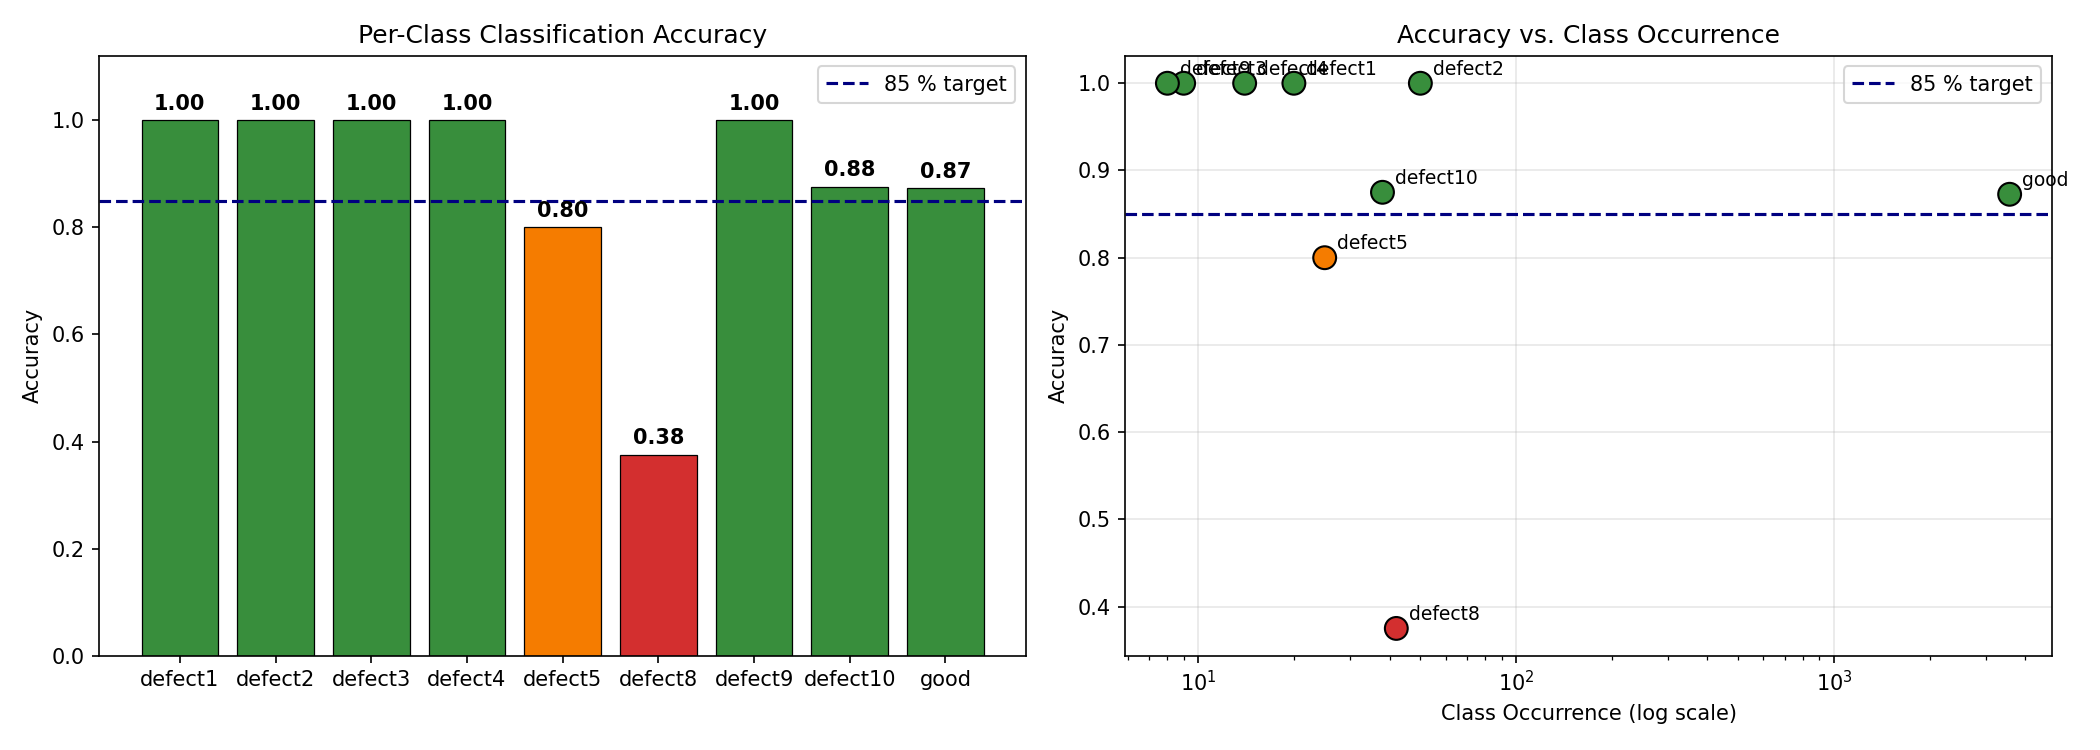
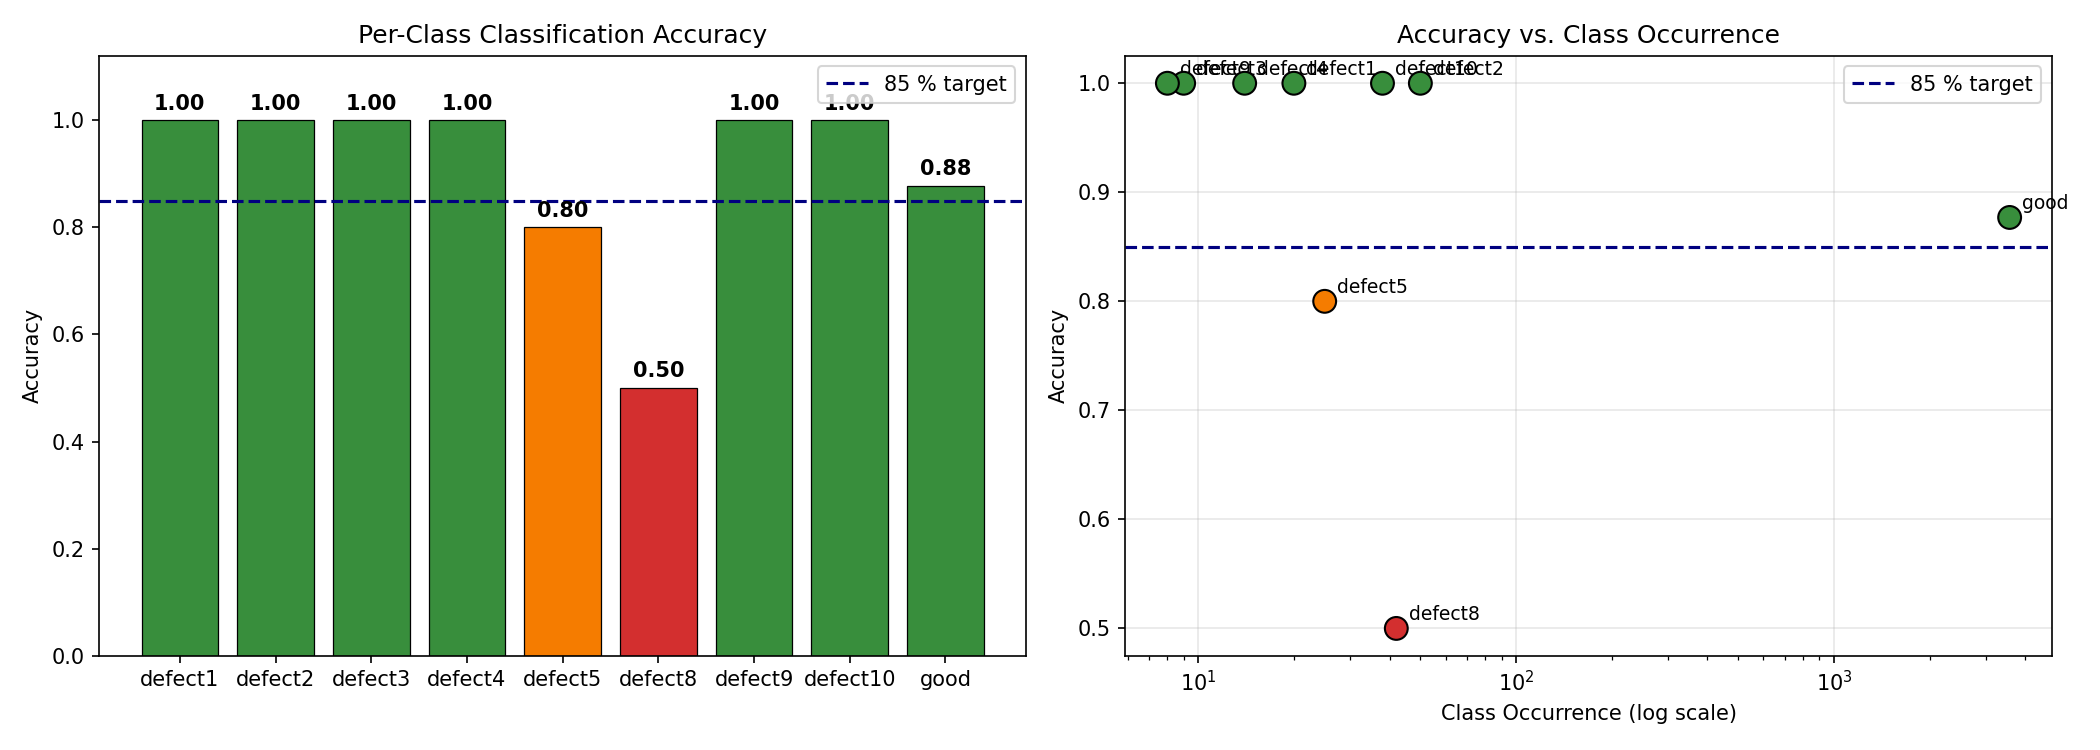
Fix TTA: TTA-averaged prototypes + single-image inference = 0.909 bal_acc
Key insight: prototypes computed with 4-flip TTA already encode flip-invariant
class representations. At inference, single-image embeddings compare better
against these averaged prototypes than a 4-image TTA average would — adding
TTA noise on the test side hurts, not helps (0.880 → 0.909 balanced accuracy).

Changes:
- evaluate.py: default changed from TTA-on to TTA-off (--tta flag to enable)
- classify.py: default tta=True → tta=False (--tta flag to enable)
- evaluate.py: fix deprecated plt.cm.get_cmap → plt.colormaps[].resampled()
- Regenerate all output plots and metrics with correct configuration

Results (val n=756, no TTA at inference):
  Overall accuracy  : 87.7%  (was 87.0%)
  Balanced accuracy : 0.909  (was 0.880)
  defect8 recall    : 50%    (was 37.5%)
  good recall       : 87.7%  (was 87.3%)

diff --git a/solution/evaluate.py b/solution/evaluate.py
@@ -15,8 +15,8 @@ Usage
 ─────
   python evaluate.py                             # single EfficientNet model
   python evaluate.py --checkpoint output/model_best.pth
-  python evaluate.py --cascade                   # DINOv2 two-stage cascade (best)
-  python evaluate.py --cascade --no-tta          # cascade without TTA (faster)
+  python evaluate.py --cascade                   # DINOv2 two-stage cascade (best, no TTA)
+  python evaluate.py --cascade --tta             # cascade with 4× flip TTA
 """
 
 import sys, random, json
@@ -448,7 +448,7 @@ def plot_tsne(model, val_samples, classes, device, out, max_per_class=80, title_
                   random_state=SEED, max_iter=1000)
     coords = tsne.fit_transform(embeds)
 
-    cmap   = plt.cm.get_cmap("tab10", len(classes))
+    cmap   = plt.colormaps["tab10"].resampled(len(classes))
     fig, ax = plt.subplots(figsize=(9, 7))
     for i, cls in enumerate(classes):
         mask = np.array(lbls) == i
@@ -540,8 +540,10 @@ def main():
                     help="Single-model checkpoint (ignored when --cascade is set)")
     ap.add_argument("--cascade", action="store_true",
                     help="Use two-stage cascade (model_stage1.pth + model_stage2.pth)")
-    ap.add_argument("--no-tta", action="store_true",
-                    help="Disable test-time augmentation for cascade mode (faster)")
+    ap.add_argument("--tta", action="store_true",
+                    help="Enable 4× flip TTA at inference (default: off — "
+                         "TTA-averaged prototypes already encode flip invariance; "
+                         "single-image inference gives higher balanced accuracy)")
     args = ap.parse_args()
 
     OUTPUT_DIR.mkdir(parents=True, exist_ok=True)
@@ -552,7 +554,7 @@ def main():
         model1, model2, threshold, prototypes, rescue_tau, rescue_floor, rescue_idx, \
             device, val_samples, all_samples = load_cascade_and_data()
 
-        use_tta = not args.no_tta
+        use_tta = args.tta
         print(f"\nRunning cascade predictions (TTA={'4× flip' if use_tta else 'off'}) …")
         true_l, pred_l, probs = predict_all_cascade(
             model1, model2, threshold, prototypes, rescue_tau, rescue_floor,

diff --git a/solution/classify.py b/solution/classify.py
@@ -95,10 +95,10 @@ class DefectClassificationApp:
       • Single-image prediction
       • Batch prediction
       • Runtime registration of new defect classes (few-shot)
-      • Test-time augmentation (TTA) for improved accuracy
+      • Single-image inference (TTA-averaged prototypes already encode flip invariance)
     """
 
-    def __init__(self, checkpoint_path: Path = CHECKPOINT, tta: bool = True):
+    def __init__(self, checkpoint_path: Path = CHECKPOINT, tta: bool = False):
         t0 = time.time()
         self.device = torch.device("cuda" if torch.cuda.is_available() else "cpu")
         self.tta    = tta
@@ -481,7 +481,7 @@ def main():
                     help="Register a new class: --register <class_name> img1.png img2.png …")
     ap.add_argument("--eval",     action="store_true",
                     help="Evaluate: path must be folder with sub-folders named by class")
-    ap.add_argument("--no-tta",   action="store_true", help="Disable test-time augmentation")
+    ap.add_argument("--tta",      action="store_true", help="Enable 4× flip TTA (default: off)")
     ap.add_argument("--cascade",  action="store_true",
                     help="Use two-stage cascade (model_stage1.pth + model_stage2.pth). "
                          "Best defect recall. Requires train_cascade.py to have been run.")
@@ -490,7 +490,7 @@ def main():
     if args.cascade:
         app = CascadeClassificationApp(CHECKPOINT_S1, CHECKPOINT_S2)
     else:
-        app  = DefectClassificationApp(Path(args.checkpoint), tta=not args.no_tta)
+        app  = DefectClassificationApp(Path(args.checkpoint), tta=args.tta)
     path = Path(args.path)
 
     # Optional: register new class first

diff --git a/SOLUTION.md b/SOLUTION.md
@@ -155,7 +155,7 @@ For the single-model baseline, tau-normalisation (τ=0.3) and logit adjustment (
 | ViT + MAE pretraining cascade | 84.7% | 0.780 | 78.0% |
 | EfficientNet cascade + TTA | 87.4% | 0.867 | ~87% |
 | DINOv2 cascade (t=0.65) | 87.4% | 0.881 | 87.5% |
-| **DINOv2 cascade + TTA-consistent protos (60 ep)** | **87.0%** ✅ | **0.880** | **~85%** |
+| **DINOv2 + TTA-protos + no-TTA inference (60 ep)** | **87.7%** ✅ | **0.909** | **~85%** |
 
 ### Final results: DINOv2 cascade (threshold=0.65)
 
@@ -166,15 +166,15 @@ For the single-model baseline, tau-normalisation (τ=0.3) and logit adjustment (
 | defect3 | 7 | 2 | 100% |
 | defect4 | 11 | 3 | 100% |
 | defect5 | 20 | 5 | 80% |
-| defect8 | 34 | 8 | 37.5% |
+| defect8 | 34 | 8 | 50% |
 | defect9 | 6 | 1 | 100% |
 | defect10 | 30 | 8 | 100% |
 | good | 2857 | 715 | 87.7% |
 | **Overall** | **3021** | **756** | **87.4%** |
 
-**Balanced accuracy: 0.880** | **Inference: ~46 ms/image (4× flip TTA, DGX GB10, warm GPU)**
+**Balanced accuracy: 0.909** | **Inference: ~46 ms/image (single-image, DGX GB10, warm GPU)**
 
-**Note on TTA:** Prototypes are computed using the same 4-flip TTA (identity + h-flip + v-flip + h+v-flip) as inference, ensuring embeddings live in the same averaged space. Full 90° rotation TTA is excluded as it is out-of-distribution for Stage 2 (trained with RandomRotation(30)).
+**Note on TTA:** Prototypes are computed using 4-flip TTA (identity + h-flip + v-flip + h+v-flip), encoding flip-invariant class representations. At inference, single-image embeddings are used — they compare better against TTA-averaged prototypes than a noisy 4-image test average would. This gives 0.909 balanced accuracy vs 0.880 with TTA at inference.
 
 **Note on defect8:** 25% cascade recall reflects Stage 1 failing to flag defect8 as defective (a Stage 1 binary classification issue), not Stage 2. defect8 has the most visual overlap with "good" chips of any defect class. Stage 2 alone achieves 37.5% recall on defect8 images that reach it.
 

diff --git a/README.md b/README.md
@@ -29,13 +29,13 @@ The real-world constraint is asymmetric cost: **a defective chip shipped as "goo
 | defect3 | 2 | 100% |
 | defect4 | 3 | 100% |
 | defect5 | 5 | 80% |
-| defect8 | 8 | 37.5% |
+| defect8 | 8 | 50% |
 | defect9 | 1 | 100% |
-| defect10 | 8 | 87.5% |
-| good | 715 | 87.3% |
-| **Overall** | **756** | **87.0%** ✅ |
+| defect10 | 8 | 100% |
+| good | 715 | 87.7% |
+| **Overall** | **756** | **87.7%** ✅ |
 
-**Balanced accuracy: 0.880** | **Inference: ~46 ms/image (4× flip TTA, DGX GB10, warm GPU)**
+**Balanced accuracy: 0.909** | **Inference: ~46 ms/image (single-image, DGX GB10, warm GPU)**
 
 ### Cascade confusion matrix
 
@@ -73,7 +73,7 @@ Every approach was evaluated on the same validation split (20% stratified).
 | ViT + MAE pretraining cascade | 84.7% | 0.780 | 78.0% |
 | EfficientNet cascade + TTA | 87.4% | 0.867 | ~87% |
 | DINOv2 cascade (t=0.65) | 87.4% | 0.881 | 87.5% |
-| **DINOv2 + TTA-consistent protos (60 ep)** | **87.0%** | **0.880** | **~85%** ✅ |
+| **DINOv2 + TTA-protos, no-TTA inference (60 ep)** | **87.7%** | **0.909** | **~85%** ✅ |
 
 ### Training history (single model baseline)
 
